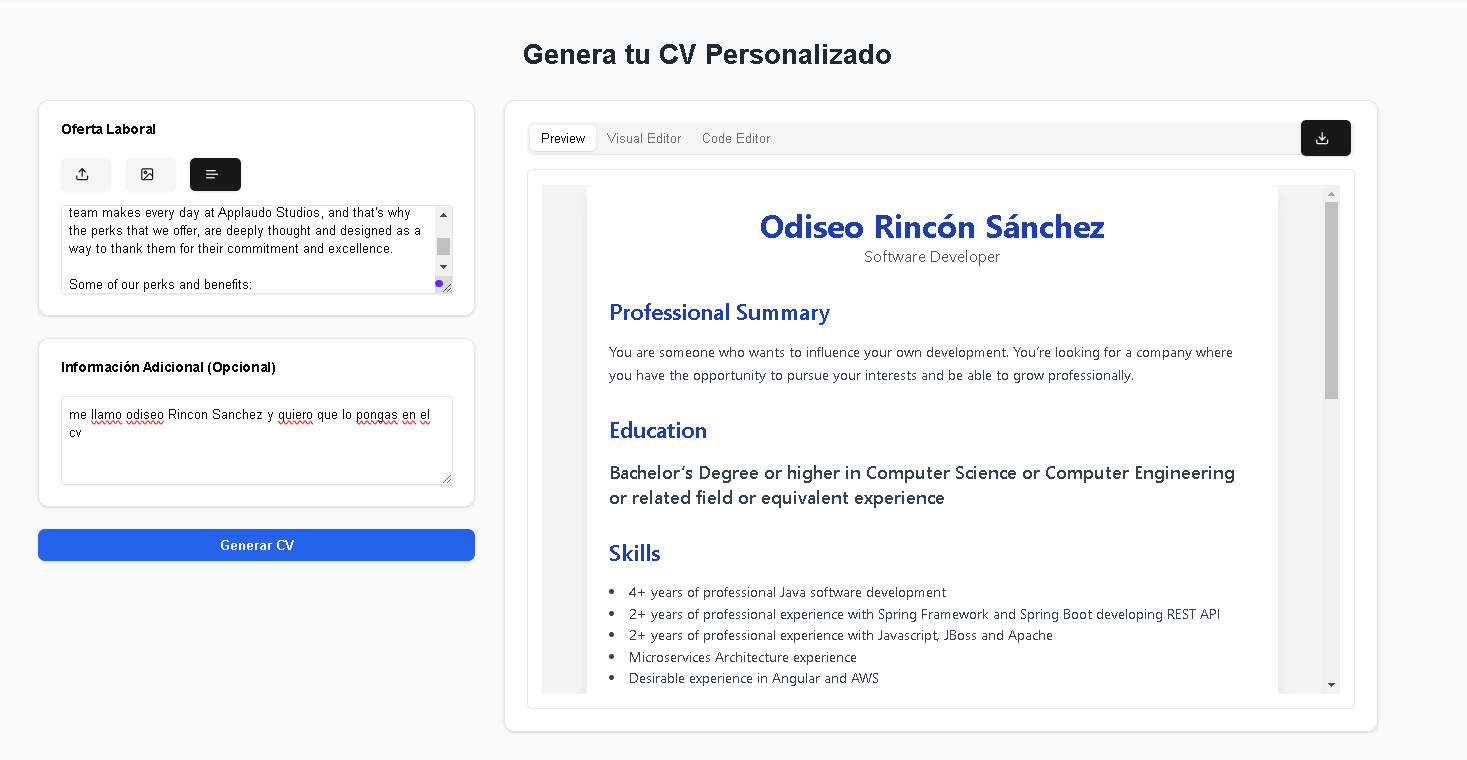
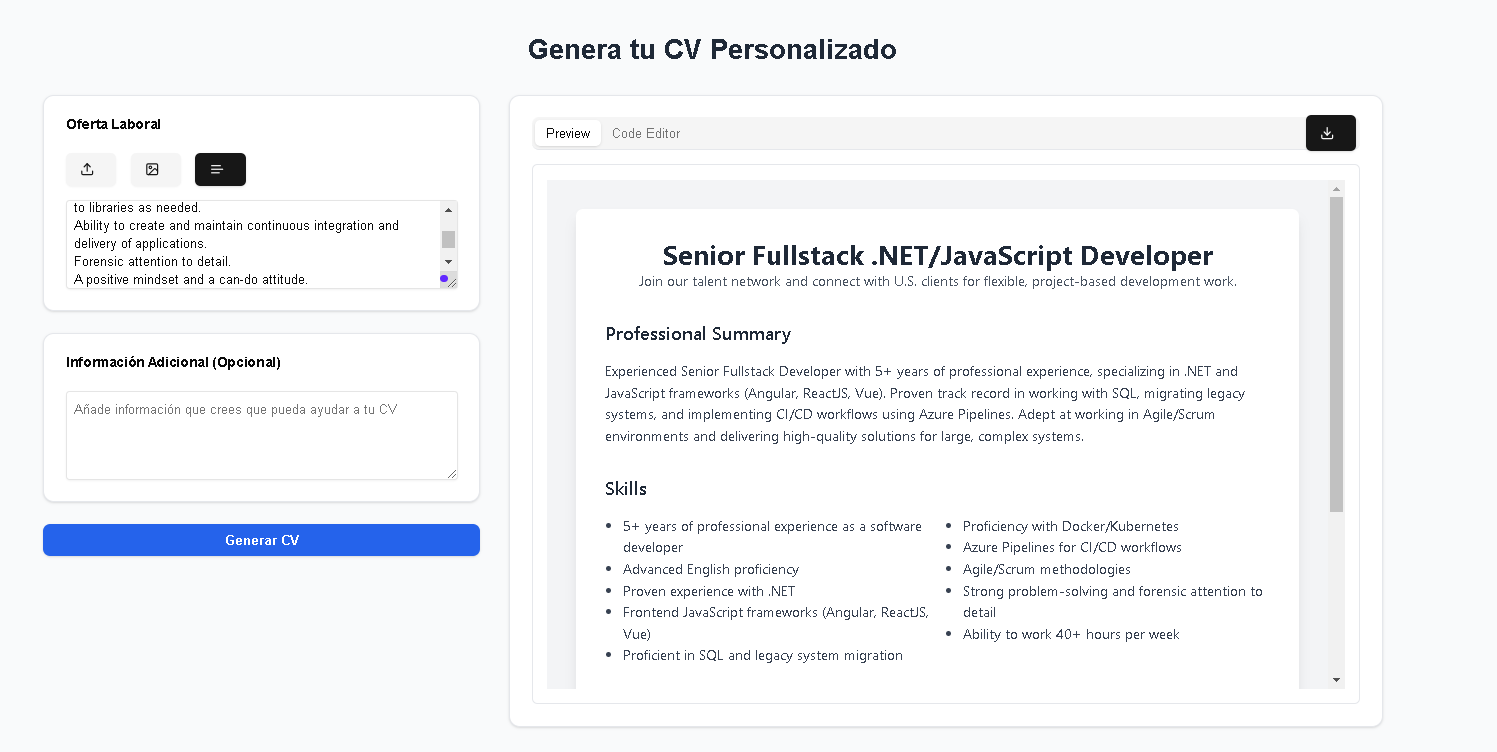
Cambiando editor de codigo del cv againg y readme

diff --git a/src/app/components/Edit_html/HtmlEditor.tsx b/src/app/components/Edit_html/HtmlEditor.tsx
@@ -46,7 +46,6 @@ export default function HtmlEditor({ initialHtml }: HtmlEditorProps) {
           <TabsList className="flex justify-between items-center border-b">
             <div className="flex-1">
               <TabsTrigger value="preview">Preview</TabsTrigger>
-              <TabsTrigger value="visual">Visual Editor</TabsTrigger>
               <TabsTrigger value="code">Code Editor</TabsTrigger>
             </div>
             <Button onClick={handleDownloadPdf} className="flex items-center h-10">
@@ -54,9 +53,11 @@ export default function HtmlEditor({ initialHtml }: HtmlEditorProps) {
             </Button>
           </TabsList>
           <Suspense fallback={<div>Loading editor...</div>}>
+          {/*
             <TabsContent value="visual" className="mt-4">
               <VisualEditor html={html} onChange={handleHtmlChange} />
             </TabsContent>
+              */}
             <TabsContent value="code" className="mt-4 w-full ">
               <CodeEditor htmlView={html} onChange={handleHtmlChange} />
             </TabsContent>
